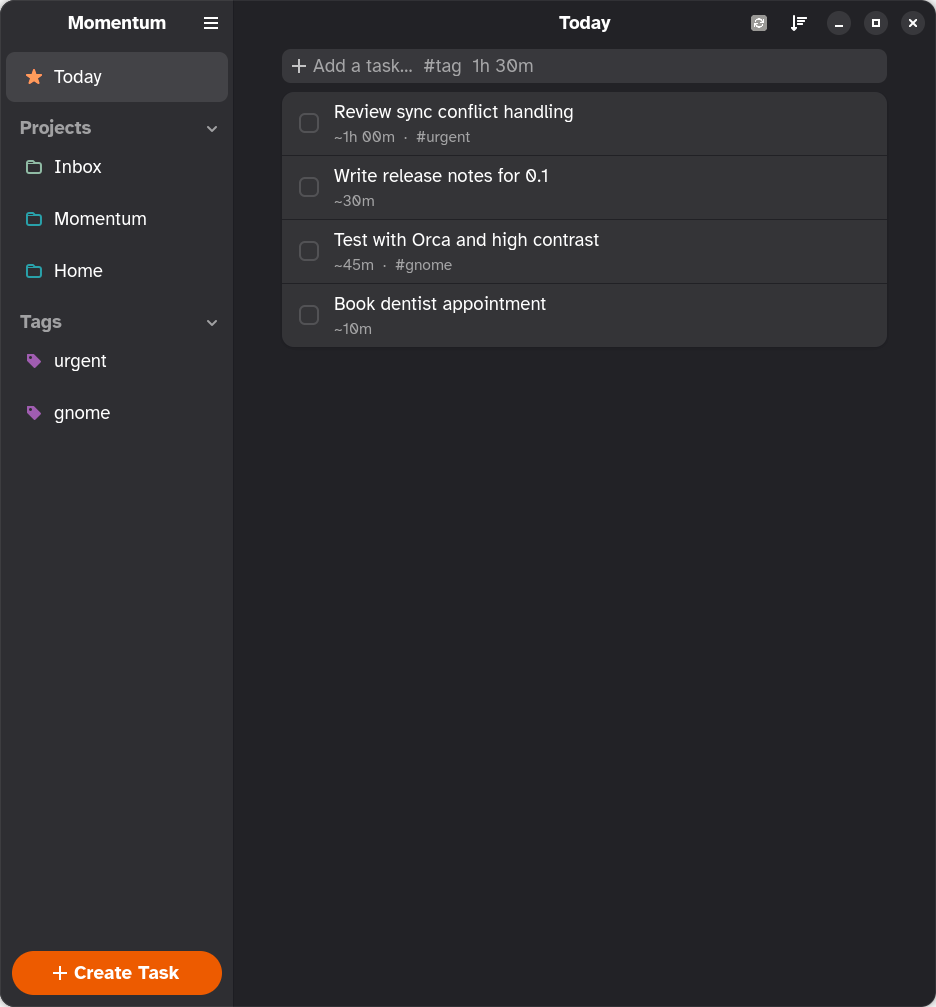
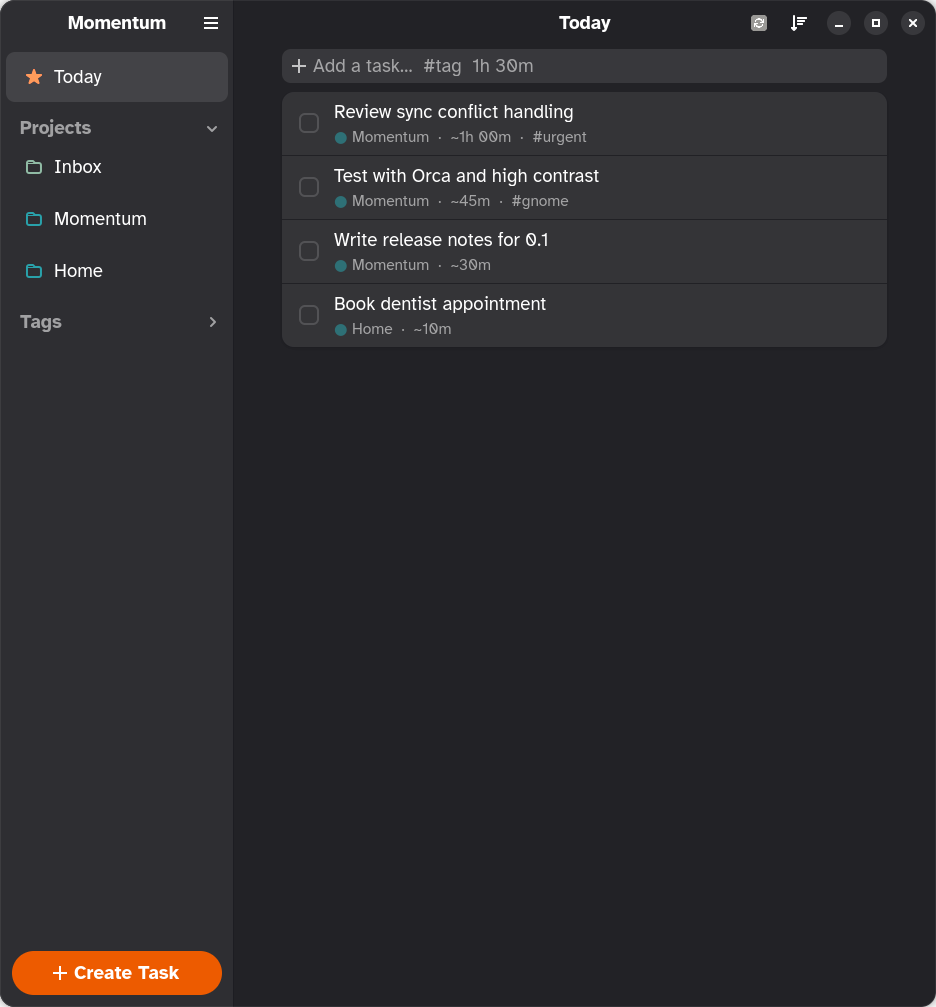
Colour-coded project name in task subtitles outside project views

diff --git a/crates/app/src/window.rs b/crates/app/src/window.rs
@@ -591,17 +591,35 @@ impl MomentumWindow {
     fn task_row(&self, t: &Task, store: &Store, indent: bool) {
         let imp = self.imp();
         let mut sub = vec![];
+        // Outside a project view, lead with the project name in the project's own colour.
+        if !matches!(*imp.view.borrow(), View::Project(_)) {
+            if let Some(p) = store.state.project.entities.get(&t.project_id) {
+                let hex = p.color().and_then(|c| gtk::gdk::RGBA::parse(c).ok()).map(|c| {
+                    format!(
+                        "#{:02x}{:02x}{:02x}",
+                        (c.red() * 255.0) as u8,
+                        (c.green() * 255.0) as u8,
+                        (c.blue() * 255.0) as u8
+                    )
+                });
+                let title = glib::markup_escape_text(&p.title);
+                sub.push(match hex {
+                    Some(h) => format!("<span foreground=\"{h}\">●</span> {title}"),
+                    None => format!("● {title}"),
+                });
+            }
+        }
         if t.time_estimate > 0.0 {
             sub.push(format!("~{}", fmt_ms(t.time_estimate)));
         }
         if let Some(d) = &t.due_day {
             if *imp.view.borrow() != View::Today {
-                sub.push(fmt_day(d));
+                sub.push(glib::markup_escape_text(&fmt_day(d)).to_string());
             }
         }
         for tag in &t.tag_ids {
             if let Some(g) = store.state.tag.entities.get(tag) {
-                sub.push(format!("#{}", g.title));
+                sub.push(format!("#{}", glib::markup_escape_text(&g.title)));
             }
         }
         let row = adw::ActionRow::builder()
